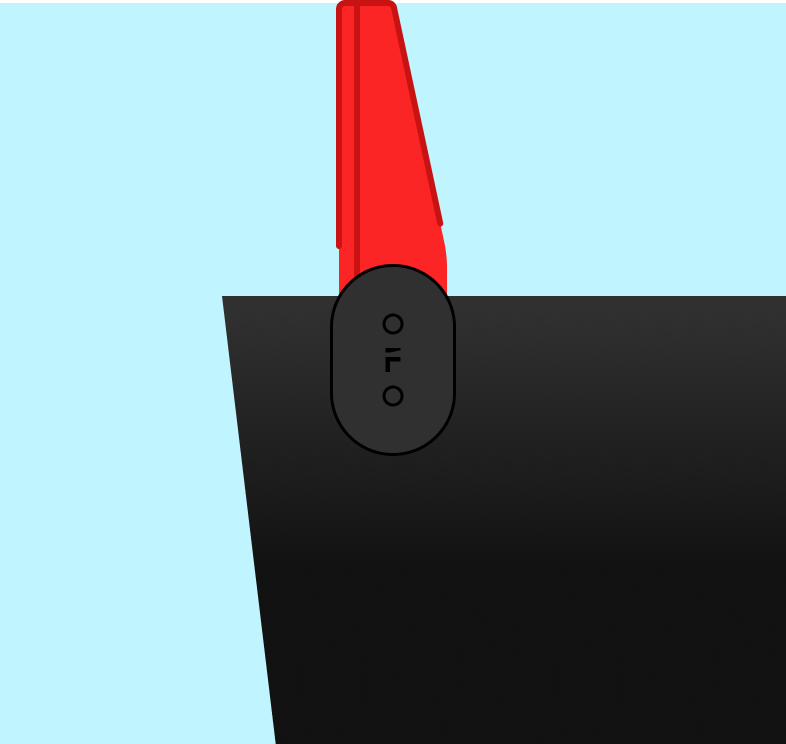
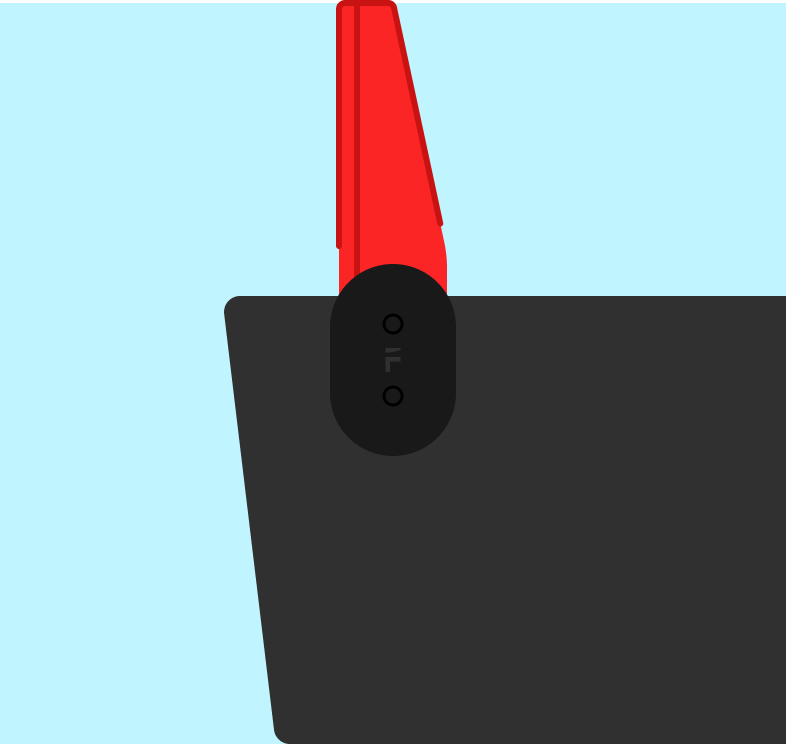
feat(FlagInstall): Added flag install route, page, and assets

diff --git a/finley/flag-install.jsx b/finley/flag-install.jsx
@@ -1,0 +1,75 @@
+import React from 'react';
+import {
+  View,
+  Image,
+  SafeAreaView,
+  StyleSheet,
+  useColorScheme,
+} from 'react-native';
+import {useNavigation} from '@react-navigation/native';
+import FnText from '../components/FnText';
+import FnPressable from '../components/FnPressable';
+import {flagBox} from '../utils/Images';
+import {COLORS} from '../utils/Colors';
+import {createBottomBarStyles} from '../utils/Style';
+import {useBaseStyles} from '../hooks/base-style-hooks';
+import {CONNECT_USPS_ROUTE} from '../constants/routes';
+
+const FlagInstall = () => {
+  const navigation = useNavigation();
+  const isDarkMode = useColorScheme() === 'dark';
+  const theme = isDarkMode ? COLORS.darktheme : COLORS.lighttheme;
+  const {backgroundStyle, safeView} = useBaseStyles();
+
+  const handleContinue = () => {
+    navigation.navigate(CONNECT_USPS_ROUTE);
+  };
+
+  const innerView = {
+    backgroundColor: theme.lightBlueBackground,
+  };
+
+  const imgView = {
+    flex: 1,
+    backgroundColor: theme.lightBlueBackground,
+    justifyContent: 'flex-end',
+  };
+
+  return (
+    <View style={backgroundStyle}>
+      <SafeAreaView style={safeView}>
+        <View style={innerView}>
+          <FnText
+            text="Have you installed your flag at your mailbox?"
+            fnTextStyles={styles.title}
+            disableDarkTheme={true}
+          />
+        </View>
+        <View style={imgView}>
+          <Image src={flagBox} style={styles.flagImg} resizeMode="contain" />
+        </View>
+      </SafeAreaView>
+      <View style={styles.bottomBar}>
+        <FnPressable text="My Flag is Installed" onPress={handleContinue} />
+      </View>
+    </View>
+  );
+};
+
+const styles = StyleSheet.create({
+  title: {
+    fontSize: 28,
+    fontWeight: 700,
+    textAlign: 'center',
+    marginBottom: 6,
+    padding: 20,
+  },
+  flagImg: {
+    marginBottom: 24,
+    width: '100%',
+    aspectRatio: 1,
+  },
+  bottomBar: createBottomBarStyles({noBackground: true}),
+});
+
+export default FlagInstall;

diff --git a/finley.jsx b/finley.jsx
@@ -30,6 +30,7 @@ import Notifications from './finley/notifications.jsx';
 import ConnectUSPS from './finley/connect-usps.jsx';
 import CompletedUSPS from './finley/completed-usps.jsx';
 import PremiumEmail from './finley/premium-email.jsx';
+import FlagInstall from './finley/flag-install.jsx';
 
 // Finley App
 // import Home from './finley/app/home';
@@ -54,6 +55,7 @@ import {
   MAIL_VIEWER_ROUTE,
   SCAN_MAIL_ROUTE,
   FIRMWARE_ROUTE,
+  FLAG_INSTALL_ROUTE,
   MENU_ROUTE,
   DEV_TESTING_ROUTE,
   GETTING_STARTED_ROUTE,
@@ -406,6 +408,13 @@ export default function Finley() {
                   <Stack.Screen
                     name={NOTIFICATIONS_ROUTE}
                     component={Notifications}
+                    options={{
+                      ...baseOptions,
+                    }}
+                  />
+                  <Stack.Screen
+                    name={FLAG_INSTALL_ROUTE}
+                    component={FlagInstall}
                     options={{
                       ...baseOptions,
                     }}

diff --git a/utils/Images.js b/utils/Images.js
@@ -10,6 +10,7 @@ import EmailNotificationImage from '../assets/email_notification.png';
 import UpsellStarImage from '../assets/upsell_star.png';
 import FlagDiagram from '../assets/flag_diagram.png';
 import FlagConnected from '../assets/flag_connected.png';
+import FlagBox from '../assets/flag_box.png';
 import MailImageWater from '../assets/mail_image_water.png';
 
 export const logoImage = Image.resolveAssetSource(LogoImage).uri;
@@ -27,4 +28,5 @@ export const emailNotificationImage = Image.resolveAssetSource(
 export const upsellStarImage = Image.resolveAssetSource(UpsellStarImage).uri;
 export const flagDiagram = Image.resolveAssetSource(FlagDiagram).uri;
 export const flagConnected = Image.resolveAssetSource(FlagConnected).uri;
+export const flagBox = Image.resolveAssetSource(FlagBox).uri;
 export const mailImageWater = Image.resolveAssetSource(MailImageWater).uri;

diff --git a/finley/notifications.jsx b/finley/notifications.jsx
@@ -16,7 +16,7 @@ import FnText from '../components/FnText';
 import {createBottomBarStyles} from '../utils/Style';
 import {notificationsImage} from '../utils/Images';
 import {LOADING_STATUS, CONNECTED_STATUS} from '../constants/status';
-import {CONNECT_USPS_ROUTE} from '../constants/routes';
+import {FLAG_INSTALL_ROUTE} from '../constants/routes';
 import {useBaseStyles} from '../hooks/base-style-hooks';
 
 const Notifications = () => {
@@ -36,7 +36,7 @@ const Notifications = () => {
     dispatch(setMailStatus({status: LOADING_STATUS}));
     setTimeout(() => {
       dispatch(setMailStatus({status: CONNECTED_STATUS}));
-      navigation.navigate(CONNECT_USPS_ROUTE);
+      navigation.navigate(FLAG_INSTALL_ROUTE);
     }, 2000);
   };
 

diff --git a/constants/routes.js b/constants/routes.js
@@ -13,6 +13,9 @@ export const MENU_ROUTE = 'Menu';
 export const SETTINGS_MENU_ROUTE = 'Settings & More';
 export const NOTIFICATIONS_PREF_ROUTE = 'Notification Preferences';
 export const DEV_TESTING_ROUTE = 'Dev Testing';
+export const FLAG_INSTALL_ROUTE = 'Flag Install';
+
+// Global Routes
 export const FIRMWARE_ROUTE = 'Firmware Update';
 
 // Getting Started Routes
